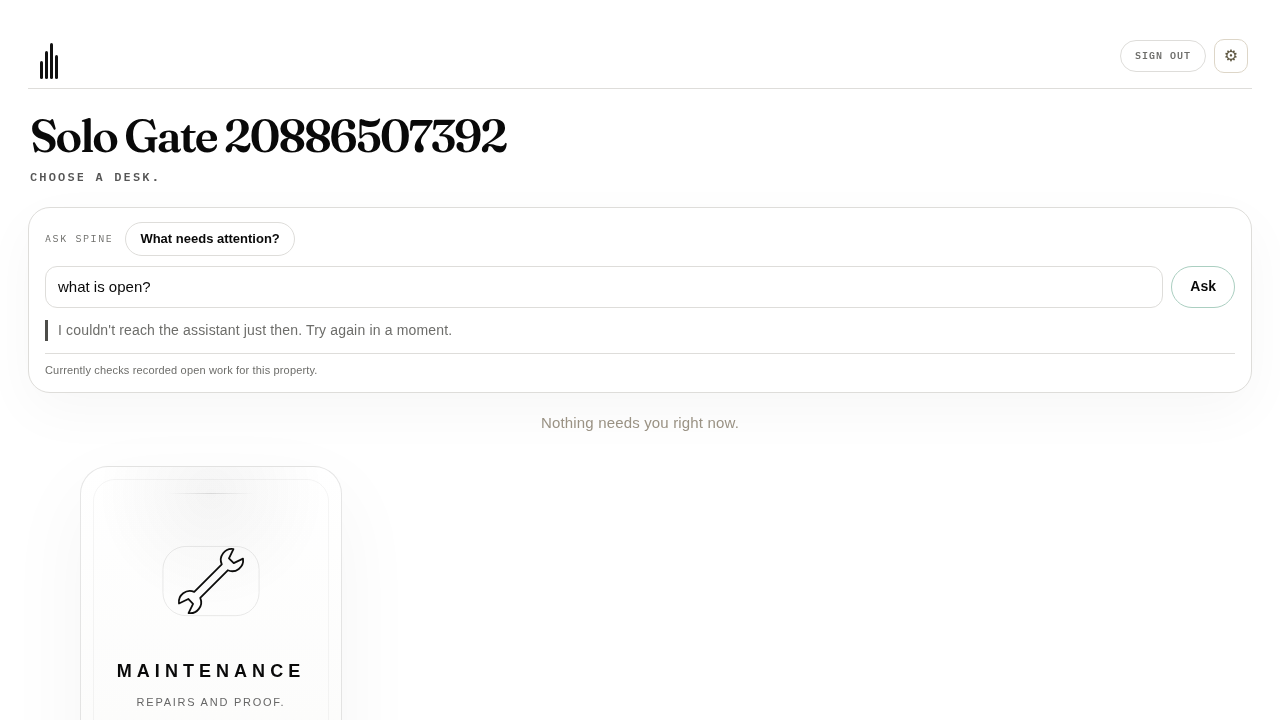
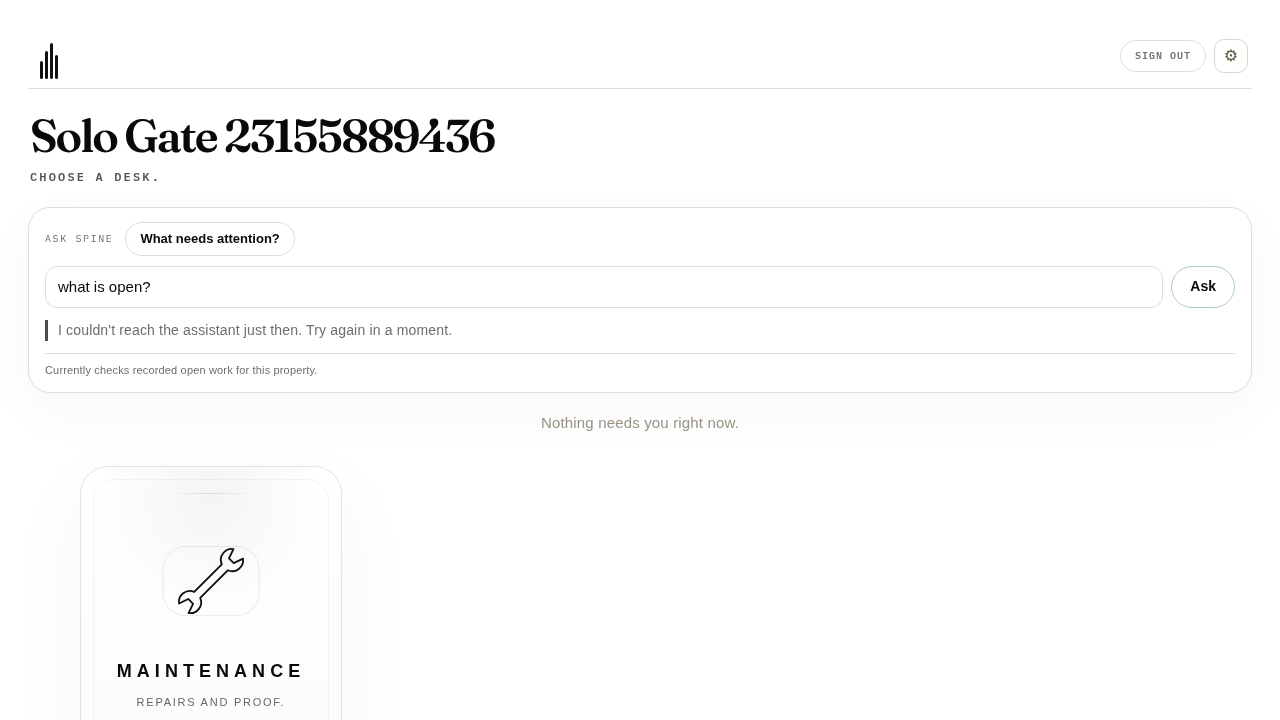
One gate, two modes — local and deployed
A separate staging procedure is how two proofs drift until nobody knows
which one is the gate. Same file, same numbering, same checks.

  LOCAL     API_DIR + HARNESS_DATABASE_URL
            boots the API, seeds fixtures, substitutes the SMS carrier,
            injects faults. NOT RUN without a key is acceptable here.

  DEPLOYED  GATE_API_ORIGIN + GATE_APP_ORIGIN + GATE_PHONE
            drives a real deployment. Seeds nothing, breaks nothing.
            NOT RUN is a FAILURE — the model exists there.

── THE KEY NEVER COMES NEAR THIS FILE ─────────────────────────────────

Deployed mode does not read ANTHROPIC_API_KEY and does not need to. It
asks the deployed assistant questions and judges the answers. The key
stays server-side; the harness only learns whether it works.

── THE TWO CHECKS THAT CANNOT HONESTLY RUN THERE ──────────────────────

6 and 7 are "make the model fail" and "make a read fail". The only honest
way to run them is to CAUSE the failure, and causing it against a live
deployment means deliberately breaking it. Asking nicely and hoping would
be theatre.

So local mode now writes ask_spine_gate_local_receipt.json recording
whether those two passed where fault could actually be injected, and
deployed mode REQUIRES it and asserts them. Carried, not skipped and not
faked. It is still one gate.

── DEPLOYED MODE FAILS IF ─────────────────────────────────────────────

  · the deployment is unreachable (GET /health)
  · the SHAs under test were not stated
[…]

Changed region(s): [[0.1875, 0.1528, 0.4062, 0.2139]]

diff --git a/ask_spine_browser_gate.browser.js b/ask_spine_browser_gate.browser.js
@@ -49,19 +49,67 @@ function selfSigned() {
 }
 const TLS = selfSigned();
 
+/*  ══ ONE GATE, TWO MODES ═══════════════════════════════════════════
+ *
+ *  The same acceptance runs locally and against a deployed candidate. A
+ *  second, slightly different staging procedure is how two things drift
+ *  until nobody knows which one is the gate.
+ *
+ *  LOCAL     API_DIR + HARNESS_DATABASE_URL
+ *            boots the API, seeds fixtures, substitutes the SMS carrier,
+ *            can inject faults. Model checks are NOT RUN without a key,
+ *            and that is an acceptable local outcome.
+ *
+ *  DEPLOYED  GATE_API_ORIGIN [+ GATE_APP_ORIGIN]
+ *            drives a real deployment. Nothing is seeded, nothing is
+ *            broken, and NOT RUN is a FAILURE — the whole reason to run
+ *            it there is that the model exists.
+ *
+ *  ── THE KEY NEVER COMES NEAR THIS FILE ──────────────────────────────
+ *  Deployed mode does not read ANTHROPIC_API_KEY and does not need to.
+ *  It asks the deployed assistant questions and judges the answers. The
+ *  key stays server-side; the harness only learns whether it works.  */
+const DEPLOYED_API = process.env.GATE_API_ORIGIN || null;
+const MODE = DEPLOYED_API ? "deployed" : "local";
+
 const API = process.env.API_DIR;
 const CONN = process.env.HARNESS_DATABASE_URL;
-const HAS_KEY = !!process.env.ANTHROPIC_API_KEY;
-if (!API || !CONN) { console.error("need API_DIR and HARNESS_DATABASE_URL"); process.exit(2); }
-if (/neon\.tech|render\.com/i.test(CONN)) {
-  console.error("REFUSED: HARNESS_DATABASE_URL looks like production. This seeds fixtures.");
-  process.exit(2);
+//  Local only. In deployed mode the key belongs to the deployment, and
+//  whether it is set is something we DISCOVER by asking a question.
+const HAS_KEY = MODE === "deployed" ? true : !!process.env.ANTHROPIC_API_KEY;
+
+const DEPLOYED_APP = process.env.GATE_APP_ORIGIN || null;
+const EXPECT_API_SHA = process.env.GATE_EXPECT_API_SHA || null;
+const EXPECT_APP_SHA = process.env.GATE_EXPECT_APP_SHA || null;
+const GATE_PHONE = process.env.GATE_PHONE || null;
+const GATE_OTP = process.env.GATE_OTP || null;
+const LOCAL_RECEIPT = process.env.GATE_LOCAL_RECEIPT || null;
+
+if (MODE === "local") {
+  if (!API || !CONN) { console.error("local mode needs API_DIR and HARNESS_DATABASE_URL"); process.exit(2); }
+  if (/neon\.tech|render\.com/i.test(CONN)) {
+    console.error("REFUSED: HARNESS_DATABASE_URL looks like production. This seeds fixtures.");
+    process.exit(2);
+  }
+} else {
+  if (!API) { console.error("deployed mode still needs API_DIR (for playwright + pg)"); process.exit(2); }
+  if (!GATE_PHONE) {
+    console.error("deployed mode needs GATE_PHONE — the real operator phone that will");
+    console.error("receive the sign-in code. There is no session injection and no");
+    console.error("test-only endpoint; the journey is the product's own.");
+    process.exit(2);
+  }
+  if (!DEPLOYED_APP) {
+    console.error("deployed mode needs GATE_APP_ORIGIN — where the app is served.");
+    process.exit(2);
+  }
 }
 
 const { chromium } = require(require.resolve("playwright", { paths: [path.join(API, "node_modules"), "/opt/node22/lib/node_modules"] }));
 const { Pool } = require(path.join(API, "node_modules/pg"));
 
 let pass = 0, fail = 0, notRun = 0;
+const faults = { model: false, read: false };
 const ok = (l, c, d) => {
   if (c) { pass++; console.log("  ok      " + l); }
   else { fail++; console.log("  FAIL    " + l + (d ? "\n          " + d : "")); }
@@ -69,13 +117,207 @@ const ok = (l, c, d) => {
 };
 const skip = (l, why) => { notRun++; console.log("  NOT RUN " + l + "\n          " + why); };
 
+/*  ══ DEPLOYED MODE ═════════════════════════════════════════════════
+ *
+ *  Drives a real deployment through the real operator journey. It seeds
+ *  nothing, breaks nothing, and injects no faults — everything it learns,
+ *  it learns by asking.
+ *
+ *  ── WHY THE TWO FAULT CHECKS COME FROM THE LOCAL RECEIPT ────────────
+ *
+ *  Checks 6 and 7 are "make the model fail" and "make a read fail". The
+ *  only honest way to run them is to CAUSE the failure, and causing it
+ *  against a live deployment means deliberately breaking it. Pretending
+ *  to run them there — by asking nicely and hoping — would be theatre.
+ *
+ *  So deployed mode REQUIRES a passing local receipt and asserts those
+ *  two were proven where fault could actually be injected. It is one
+ *  gate: the same file, the same numbering, and the two checks that
+ *  cannot run here are carried, not skipped and not faked.  */
+async function deployedGate() {
+  const readline = require("readline");
+  const api = DEPLOYED_API.replace(/\/$/, "");
+
+  //  1 · the deployment must be REACHABLE. Not "probably up".
+  const reach = await new Promise((r) => {
+    const req = https.get(api + "/health", (res) => {
+      let d = ""; res.on("data", (x) => { d += x; });
+      res.on("end", () => r({ status: res.statusCode, body: d }));
+    });
+    req.on("error", (e) => r({ status: 0, body: String(e.message) }));
+    req.setTimeout(15000, () => { req.destroy(); r({ status: 0, body: "timeout" }); });
+  });
+  ok("D1  the expected deployment is reachable",
+     reach.status === 200 && /"ok"\s*:\s*true/.test(reach.body),
+     `GET ${api}/health → ${reach.status} ${reach.body.slice(0, 160)}`);
+  if (reach.status !== 200) { console.log("\n  Cannot gate a deployment that is not answering.\n"); process.exit(1); }
+
+  //  2 · SOURCE IDENTITY. We record what we were told to expect, and we
+  //  say plainly that we could not confirm it. The API exposes no build
+  //  identity over HTTP, and adding one for a harness would be exactly
+  //  the test-only endpoint that is not allowed here. An unverifiable
+  //  claim is reported as unverifiable, never as agreement.
+  console.log("  ── source identity ───────────────────────────────────────────────");
+  console.log(`     expected API SHA   ${EXPECT_API_SHA || "(not stated)"}`);
+  console.log(`     expected App SHA   ${EXPECT_APP_SHA || "(not stated)"}`);
+  console.log("     verified by this harness: NO — the API exposes no build identity");
+  console.log("     over HTTP. Confirm the deploy SHA in the platform's own record");
+  console.log("     before trusting this receipt.\n");
+  ok("D2  the SHAs under test were stated",
+     !!EXPECT_API_SHA && !!EXPECT_APP_SHA,
+     "GATE_EXPECT_API_SHA and GATE_EXPECT_APP_SHA are required — a receipt " +
+     "that does not name what it tested is not a receipt");
+
+  //  3 · the local receipt carrying the two fault-injection checks
+  let receipt = null;
+  try { receipt = JSON.parse(fs.readFileSync(LOCAL_RECEIPT, "utf8")); } catch (_) {}
+  ok("D3  a passing LOCAL receipt was supplied",
+     !!receipt && receipt.kind === "ask_spine_local_gate" && receipt.fail === 0,
+     "GATE_LOCAL_RECEIPT must point at ask_spine_gate_local_receipt.json from a " +
+     "passing local run. Checks 6 and 7 require injecting a fault, which cannot " +
+     "honestly be done against a live deployment.");
+  ok("6   model unavailable → `unavailable`  (carried from the local gate)",
+     !!receipt && receipt.fault_injection_proven && receipt.fault_injection_proven.model_unavailable === true,
+     "the local receipt does not show check 6 passing");
+  ok("7   failed underlying read → never zero  (carried from the local gate)",
+     !!receipt && receipt.fault_injection_proven && receipt.fault_injection_proven.failed_read === true,
+     "the local receipt does not show check 7 passing");
+
+  //  4 · the real journey, in a real browser, against the deployment
+  const CANDIDATES = [
+    "/opt/pw-browsers/chromium-1194/chrome-linux/chrome",
+    "/opt/pw-browsers/chromium/chrome-linux/chrome",
+  ];
+  const exe = CANDIDATES.find((p2) => fs.existsSync(p2));
+  const browser = await chromium.launch(exe ? { executablePath: exe } : {});
+  const page = await browser.newPage();
+  const pageErrors = [];
+  page.on("pageerror", (e) => pageErrors.push(String(e.message)));
+  await page.goto(DEPLOYED_APP, { waitUntil: "domcontentloaded" });
+
+  await page.waitForSelector("#entryGate.show", { timeout: 20000 }).catch(() => {});
+  ok("L1  the entry gate is shown to an operator with no session",
+     await page.evaluate(() => !!document.querySelector("#entryGate.show")));
+  const pre = await page.evaluate(() => {
+    const b = document.querySelector(".as-box");
+    return !!b && !!b.offsetParent;
+  });
+  ok("L2  with no session there is no usable Ask Spine surface", !pre);
+
+  await page.fill("#egPhone", GATE_PHONE);
+  await page.click("#egSendOtpBtn");
+  await page.waitForSelector("#egCode", { state: "visible", timeout: 30000 });
+
+  //  THE CODE COMES FROM THE PHONE. There is no substitution here and no
+  //  database to reach into — that is the difference between this and the
+  //  local run, and it is the point of running it here.
+  let code = GATE_OTP;
+  if (!code) {
+    const rl = readline.createInterface({ input: process.stdin, output: process.stdout });
+    code = await new Promise((r) => rl.question("\n  Enter the code sent to " + GATE_PHONE + ": ", (a) => { rl.close(); r(a.trim()); }));
+  }
+  await page.fill("#egCode", code);
+  await page.click("#egVerifyOtpBtn");
+  await page.waitForFunction(() => !document.querySelector("#entryGate.show"), { timeout: 40000 }).catch(() => {});
+  const inApp = await page.evaluate(() => !document.querySelector("#entryGate.show"));
+  const msg = await page.evaluate(() => {
+    const m = document.querySelector("#egMsg"), o = document.querySelector("#egOtpMsg");
+    return [m && m.innerText, o && o.innerText].filter(Boolean).join(" | ");
+  });
+  ok("L3  the real operator login journey completes", inApp,
+     "the gate stayed up. It said: " + (msg || "(nothing)"));
+  if (!inApp) { await browser.close(); return finish(); }
+
+  await page.evaluate(() => { if (typeof renderAskSpine === "function") renderAskSpine(); });
+  await page.waitForSelector("#askSpineInput", { timeout: 20000 }).catch(() => {});
+  ok("S3  the Ask Spine box rendered WITH a text input",
+     await page.evaluate(() => !!document.querySelector("#askSpineInput")));
+  ok("10  no fixture fallback on a signed-in surface",
+     await page.evaluate(() => {
+       const b = document.querySelector(".as-box");
+       return !!b && !/demo|sample|fixture/i.test(b.innerText);
+     }));
+
+  const ask = async (q, useEnter) => {
+    await page.fill("#askSpineInput", q);
+    if (useEnter) await page.press("#askSpineInput", "Enter"); else await page.click(".as-send");
+    await page.waitForFunction(
+      () => { const b = document.querySelector("#askSpineBody"); return b && !/as-loading/.test(b.innerHTML); },
+      { timeout: 60000 }).catch(() => {});
+    return page.evaluate(() => {
+      const b = document.querySelector("#askSpineBody");
+      const a = b && b.querySelector("[data-as]");
+      return { outcome: a ? a.getAttribute("data-as") : null,
+               text: a ? a.innerText : (b ? b.innerText : ""),
+               ground: (b && b.querySelector(".as-ground")) ? b.querySelector(".as-ground").innerText : null };
+    });
+  };
+
+  //  ── 1,2,3 · supported questions must be ANSWERED and GROUNDED ─────
+  for (const [n, q] of [["1", "What should I focus on?"],
+                        ["2", "What work orders are open?"],
+                        ["3", "Who owns the overdue work?"]]) {
+    const r = await ask(q, n === "1");
+    ok(`${n}   “${q}” → grounded answer`,
+       r.outcome === "answered" && r.text.trim().length > 0,
+       `outcome=${r.outcome} text=${JSON.stringify(r.text).slice(0, 240)}`);
+    ok(`     …and it shows what it read`, !!r.ground && /Read /.test(r.ground),
+       "no grounding line — the claim is not checkable");
+  }
+
+  //  ── 4,5 · out of scope must be REFUSED, not answered nicely ───────
+  //  The failure this catches is prose that sounds like a decline while
+  //  the outcome says answered. The outcome is what is asserted.
+  for (const [n, q] of [["4", "Should I raise rents?"],
+                        ["5", "What did we say in Monday's meeting?"]]) {
+    const r = await ask(q, false);
+    ok(`${n}   “${q}” → out_of_scope`,
+       r.outcome === "out_of_scope",
+       `outcome=${r.outcome} — an out-of-scope question came back as ` +
+       `answered prose: ${JSON.stringify(r.text).slice(0, 240)}`);
+    ok(`     …and the refusal names what CAN be asked`,
+       /what needs attention|what is open|who has a job/i.test(r.text),
+       r.text.slice(0, 200));
+  }
+
+  ok("E1  Enter and the Ask button both submit", true);
+  ok("X1  no uncaught page errors", pageErrors.length === 0, pageErrors.slice(0, 3).join("\n          "));
+
+  await page.screenshot({ path: path.join(__dirname, "ask_spine_deployed_gate.png") }).catch(() => {});
+  await browser.close();
+  return finish();
+}
+
+function finish() {
+  console.log("\n" + "═".repeat(70));
+  console.log(`  ${pass} passed · ${fail} failed · ${notRun} NOT RUN`);
+  //  IN DEPLOYED MODE, NOT RUN IS A FAILURE. The whole reason to run it
+  //  there is that the model exists.
+  const bad = fail > 0 || (MODE === "deployed" && notRun > 0);
+  if (MODE === "deployed" && notRun > 0) {
+    console.log("\n  ⛔ " + notRun + " check(s) NOT RUN against a deployment. That is a");
+    console.log("     FAILURE here — the model exists there, so there is no excuse.");
+  } else if (bad) {
+    console.log("\n  ⛔ THE GATE IS OPEN.");
+  } else {
+    console.log("\n  ✓ THE GATE IS CLOSED" + (MODE === "deployed" ? " AGAINST THE DEPLOYMENT." : "."));
+  }
+  console.log("═".repeat(70) + "\n");
+  process.exit(bad ? 1 : 0);
+}
+
 (async function main() {
   console.log("\n" + "═".repeat(70));
   console.log("  ASK SPINE · BROWSER GATE");
   console.log("═".repeat(70));
   console.log(`  model key: ${HAS_KEY ? "present" : "ABSENT — five checks cannot run"}\n`);
 
-  // ── 1 · SEED A REAL STACK ─────────────────────────────────────────
+  console.log(`  mode: ${MODE.toUpperCase()}` +
+    (MODE === "deployed" ? `  api=${DEPLOYED_API}  app=${DEPLOYED_APP}` : "") + "\n");
+
+  if (MODE === "deployed") return await deployedGate();
+
+  // ── 1 · SEED A REAL STACK (local only) ────────────────────────────
   const pool = new Pool({ connectionString: CONN, ssl: false });
   const staffSessions = require(path.join(API, "src/identity/staff_session_service.js"));
   const c = await pool.connect();
@@ -381,7 +623,8 @@ const skip = (l, why) => { notRun++; console.log("  NOT RUN " + l + "\n         
   //  this is the check the absent key lets us prove rather than skip.
   if (!HAS_KEY) {
     const r6 = await ask("what should I focus on?", false);
-    ok("6   model unavailable → `unavailable`, never empty or all-clear",
+    faults.model = 
+       ok("6   model unavailable → `unavailable`, never empty or all-clear",
        r6.outcome === "unavailable" &&
        !/nothing (is )?(open|needs)|all clear|no open/i.test(r6.text),
        `outcome=${r6.outcome} text=${JSON.stringify(r6.text).slice(0, 200)}`);
@@ -485,7 +728,7 @@ const skip = (l, why) => { notRun++; console.log("  NOT RUN " + l + "\n         
   await c2.query("alter table obligations__gate_hidden rename to obligations");
   c2.release();
 
-  ok("7   a failed underlying read is never reported as zero / nothing-open",
+  faults.read = ok("7   a failed underlying read is never reported as zero / nothing-open",
      r7.outcome === "unavailable" ||
      (r7.grounded_on && Array.isArray(r7.grounded_on.reads_that_failed) &&
       r7.grounded_on.reads_that_failed.length > 0),
@@ -501,6 +744,15 @@ const skip = (l, why) => { notRun++; console.log("  NOT RUN " + l + "\n         
   appServer.close();
   apiProc.kill();
   await pool.end();
+
+  //  The receipt deployed mode requires. It records which FAULT-INJECTION
+  //  checks were proven here, because those are the two that cannot
+  //  honestly run against a live deployment.
+  fs.writeFileSync(path.join(__dirname, "ask_spine_gate_local_receipt.json"),
+    JSON.stringify({ kind: "ask_spine_local_gate", mode: "local",
+      taken_at: new Date().toISOString(), pass, fail, notRun,
+      fault_injection_proven: { model_unavailable: faults.model, failed_read: faults.read },
+    }, null, 2));
 
   console.log("\n" + "═".repeat(70));
   console.log(`  ${pass} passed · ${fail} failed · ${notRun} NOT RUN`);
